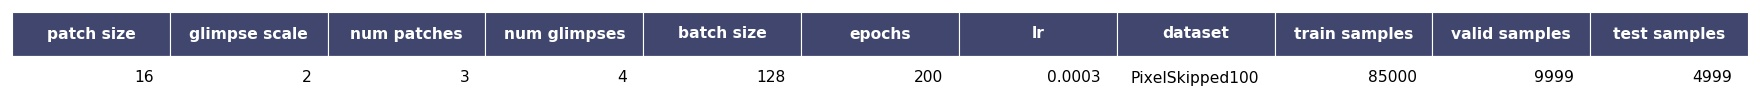
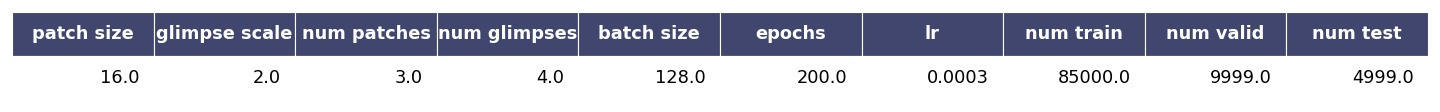
Ram regression

diff --git a/main.py b/main.py
@@ -653,10 +653,9 @@ class Main:
         df['batch size'] = [self.batch_size]
         df['epochs'] = [self.epochs]
         df['lr'] = [self.lr]
-        df['dataset'] = [self.train_loader.dataset.name]
-        df['train samples'] = [self.num_train]
-        df['valid samples'] = [self.num_valid]
-        df['test samples'] = [self.num_test]
+        df['num train'] = [self.num_train]
+        df['num valid'] = [self.num_valid]
+        df['num test'] = [self.num_test]
         
         render_table(df, self.output_path, 'config.jpg')
         

diff --git a/utils.py b/utils.py
@@ -202,7 +202,7 @@ def save_config(config):
         json.dump(config.__dict__, fp, indent=4, sort_keys=True)
 
 
-def render_table(data, data_dir, filename, col_width=2.0, row_height=0.7, font_size=14,
+def render_table(data, data_dir, filename, col_width=1.8, row_height=0.7, font_size=16,
                     header_color='#40466e', row_colors=['#f1f1f2', 'w'], edge_color='w',
                     bbox=[0, 0, 1, 1], header_columns=0, **kwargs):
     
